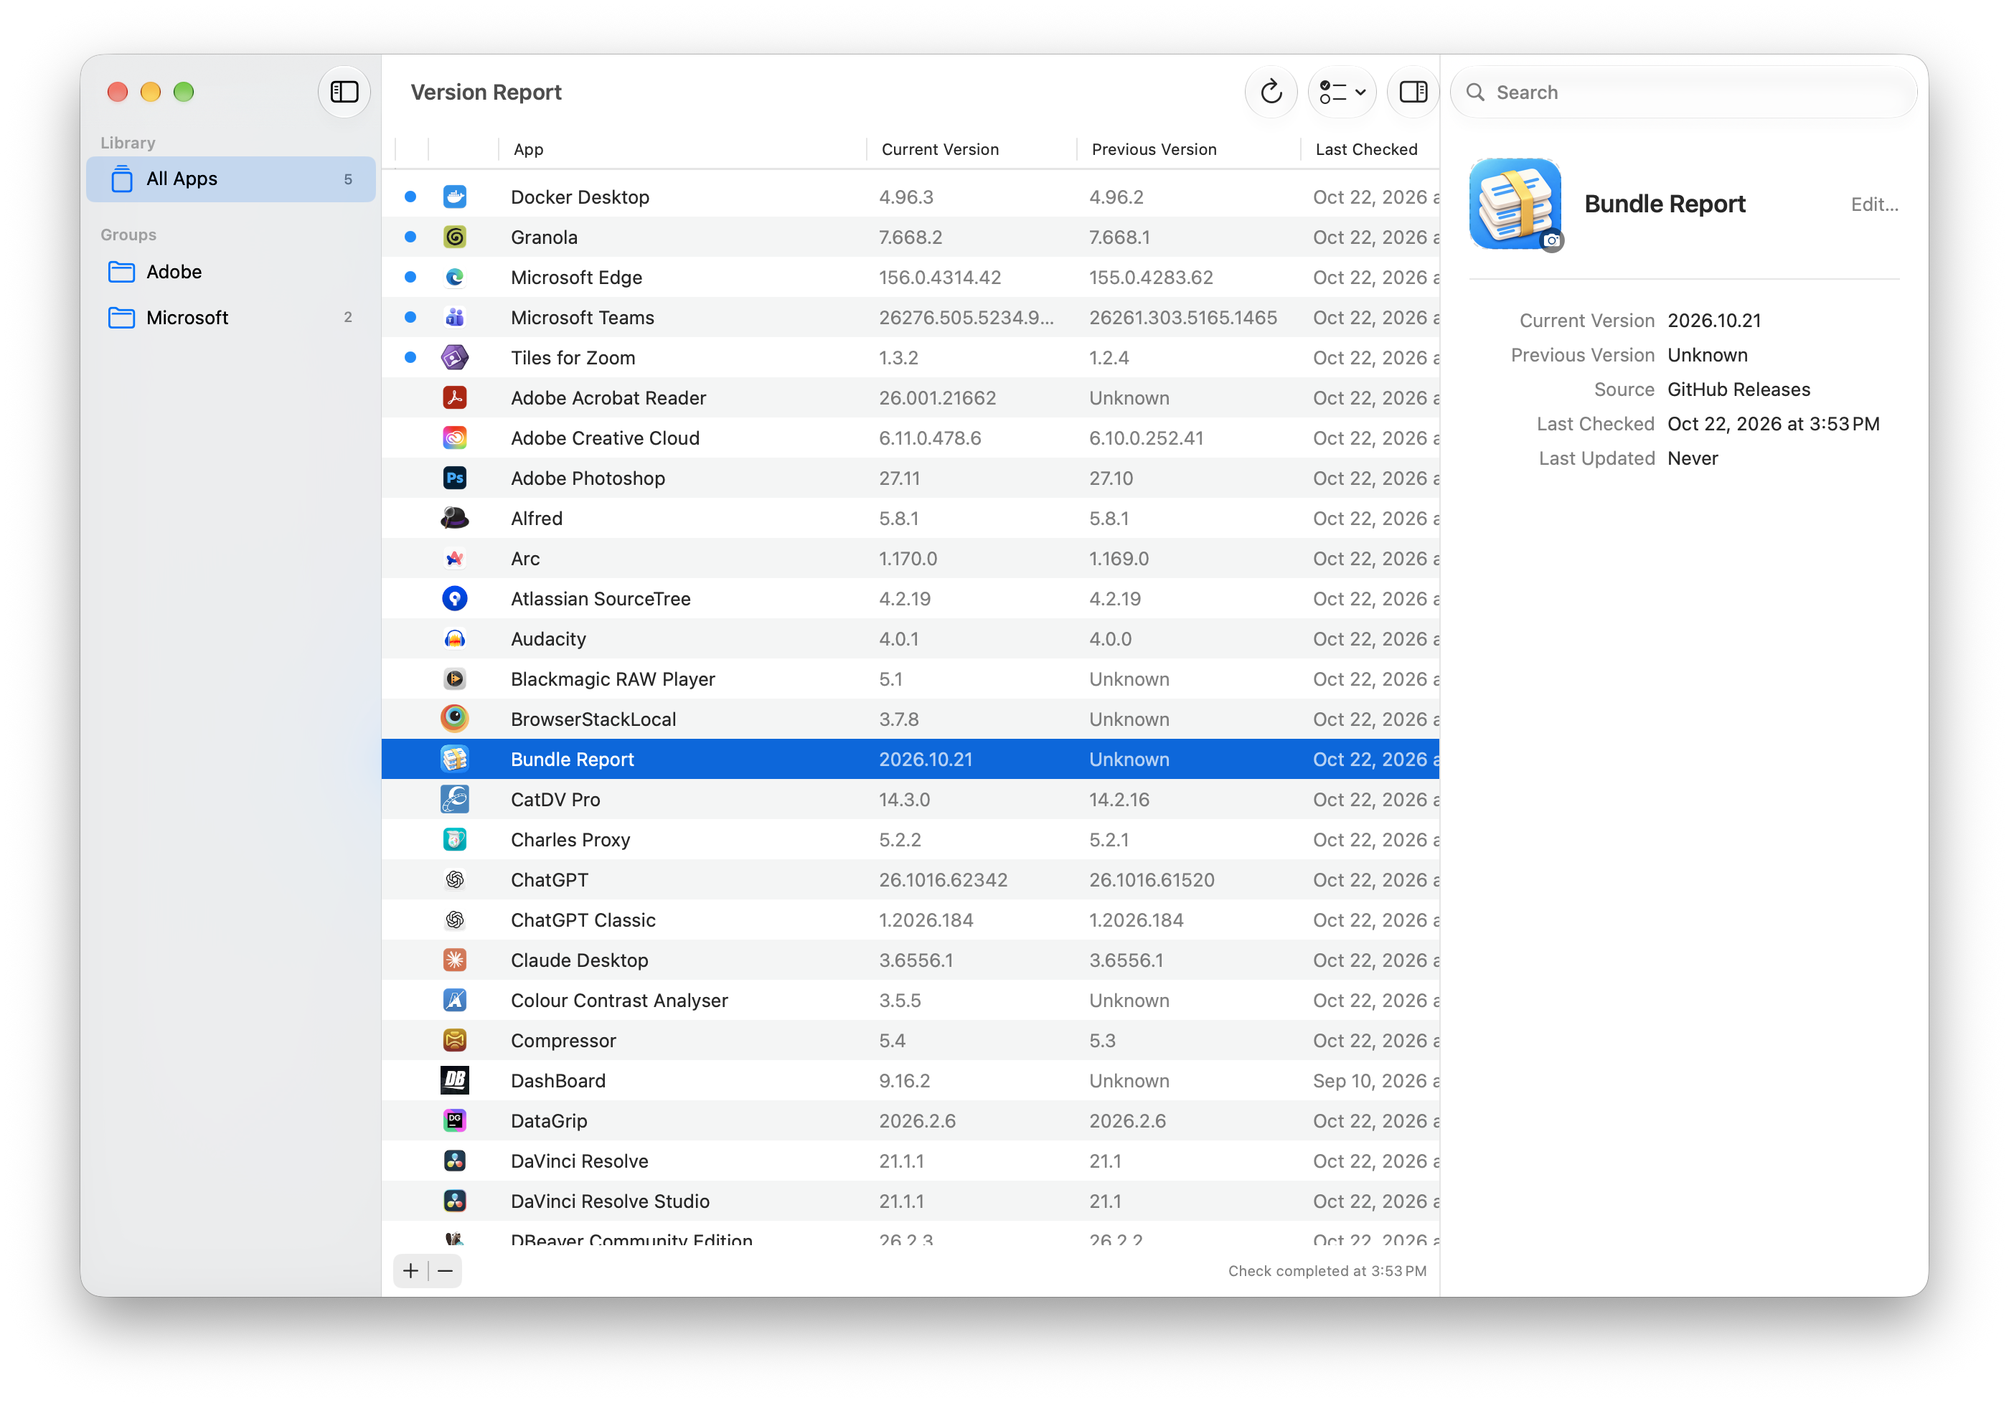
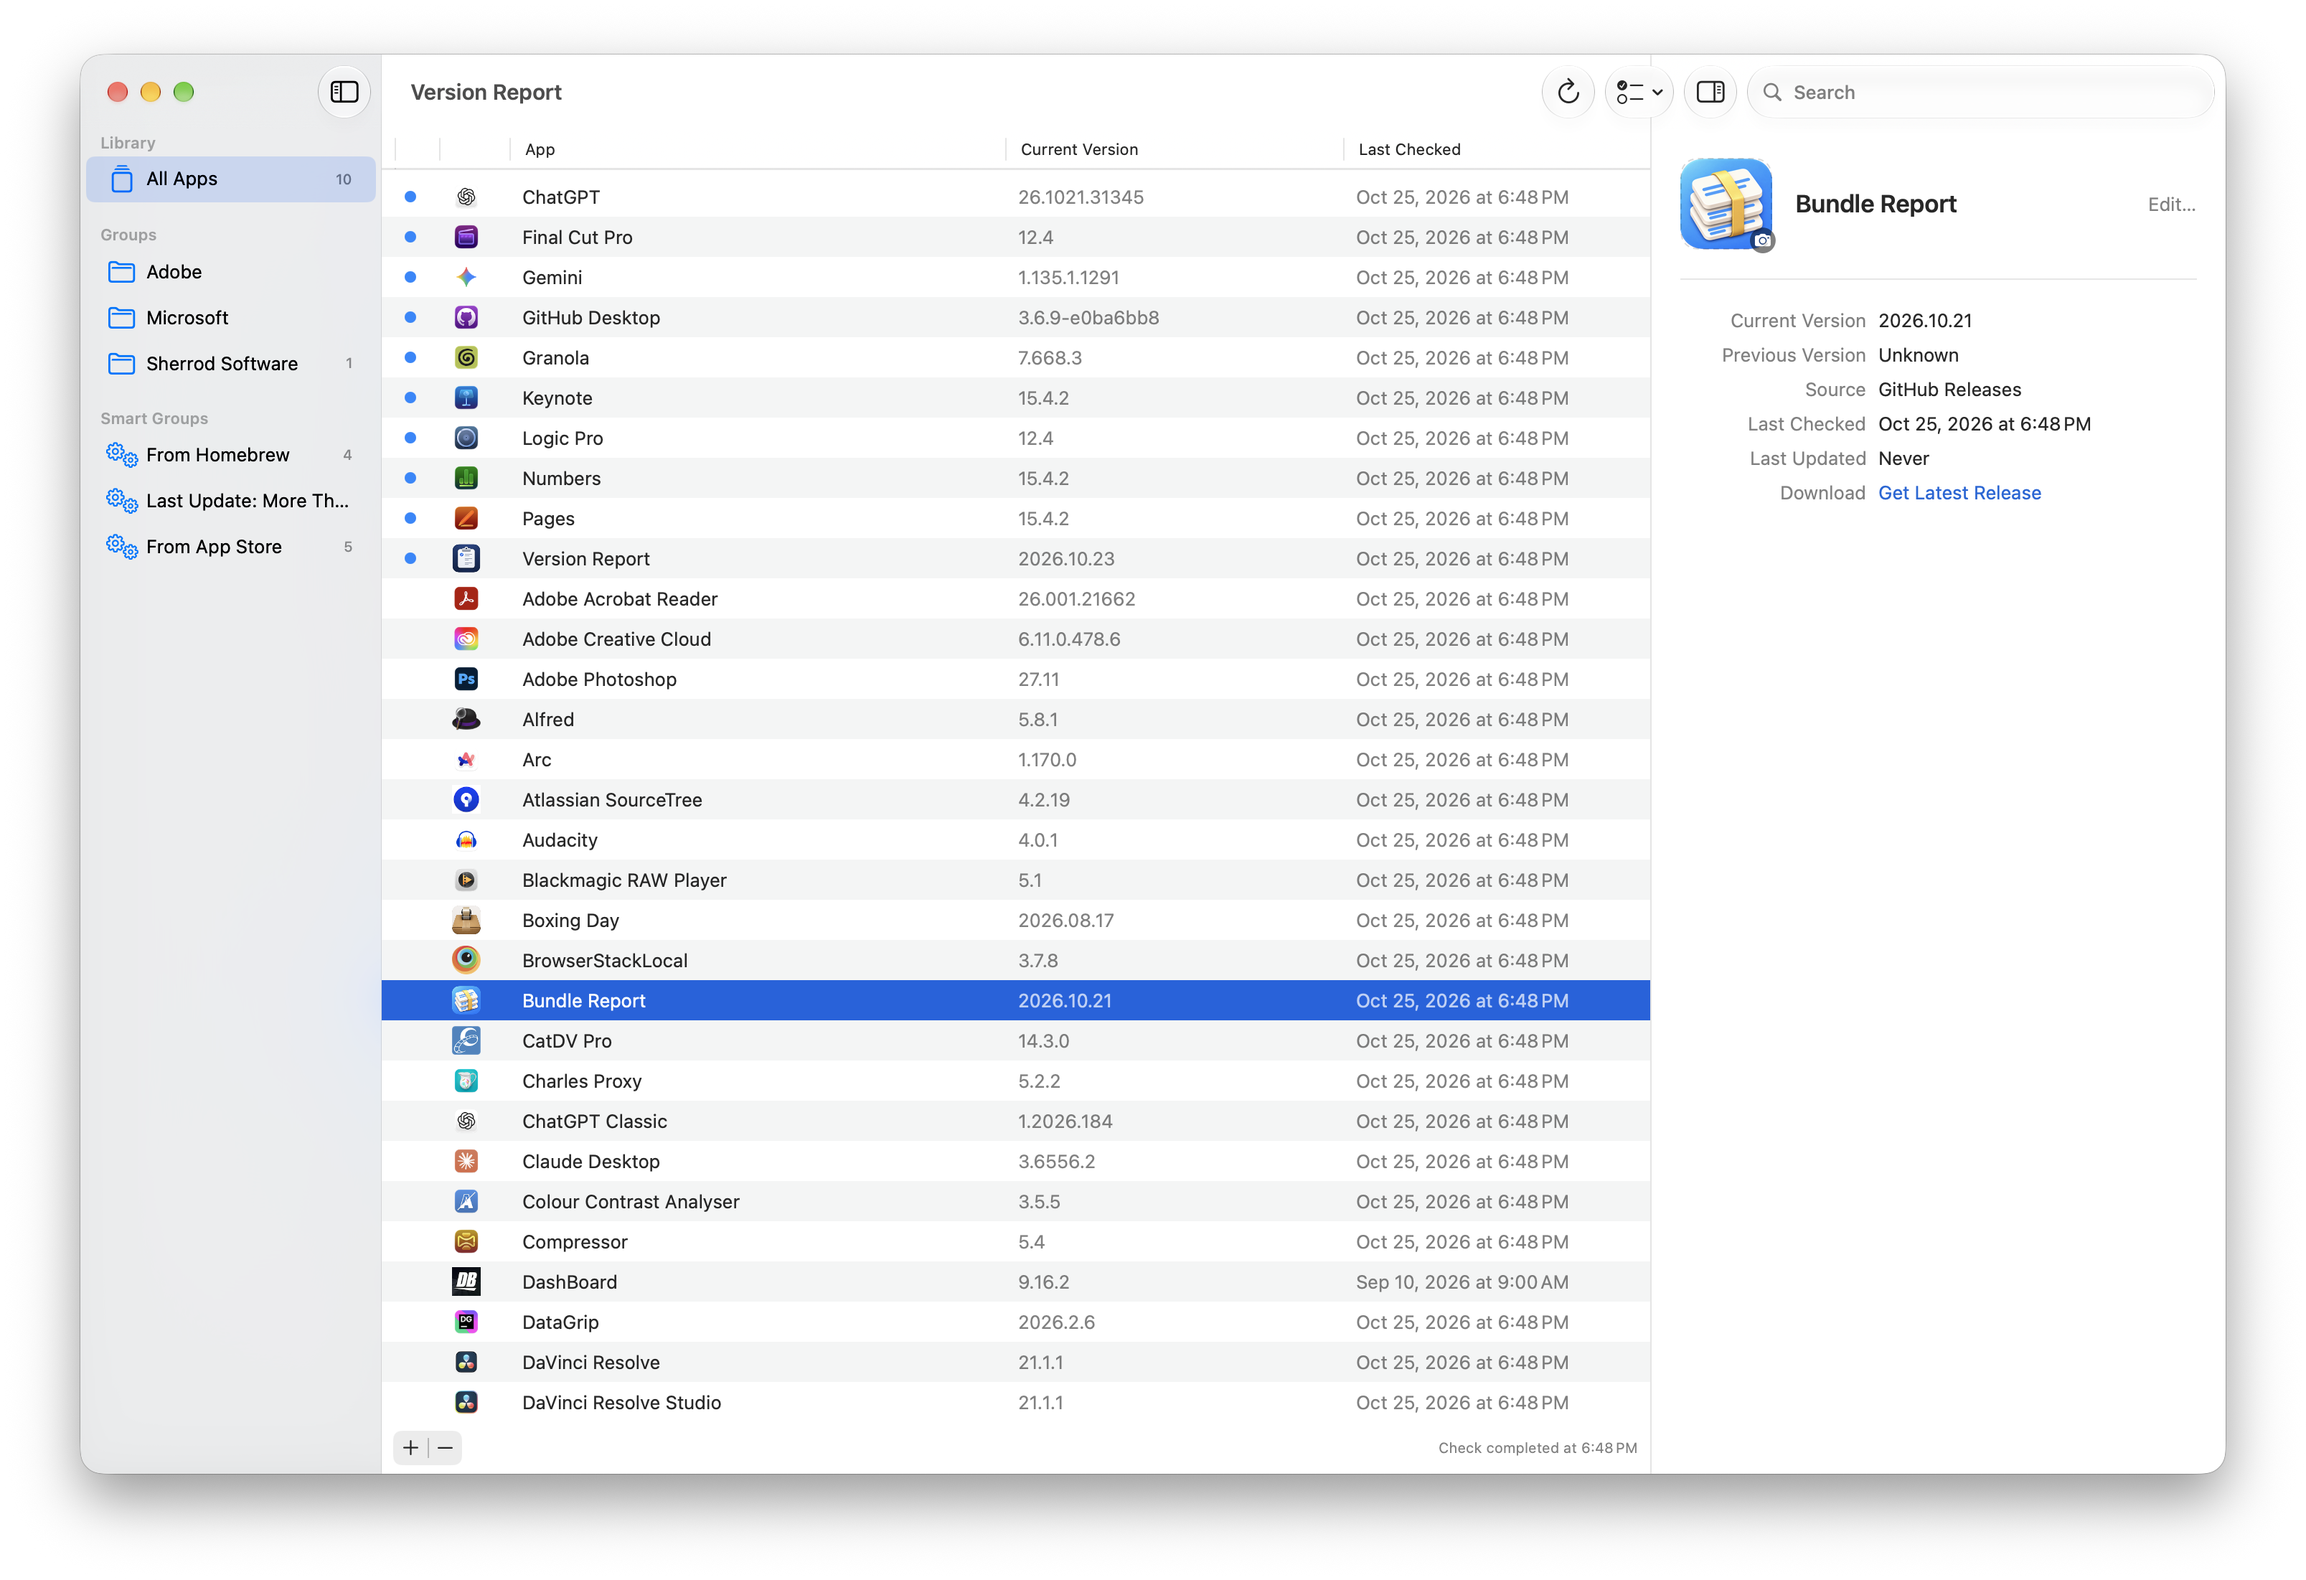
Add Sparkle auto-update, batch App Store lookups, fix onboarding window order
- Add Sparkle framework integration with SUFeedURL/SUPublicEDKey in Info.plist
- Delay updater start so main window appears before first-run permission dialog
- Batch all App Store version checks into a single iTunes Lookup API call with
  per-app fallback for entries that don't have a numeric iTunes ID in their URL
- Extend iTunesID parser to handle both apps.apple.com path format and iTunes
  lookup query-string format
- Convert all 15 bundled App Store library entries from regex/page scraping to
  the iTunes Lookup API (jq parser) for more reliable version detection
- Fix Logic Pro and Final Cut Pro iTunes IDs (were iPad app IDs, now Mac IDs)
- Update VersionReportWindow screenshot

Changed region(s): [[0.0311, 0.0312, 0.9632, 0.9356], [0.6525, 0.0312, 0.7457, 0.0624], [0.7768, 0.0312, 0.8079, 0.0624]]

diff --git a/Version Report/VersionReportService.swift b/Version Report/VersionReportService.swift
@@ -925,6 +925,55 @@ final class VersionReportService: ObservableObject {
         return "\(parts[0])/\(parts[1])"
     }
 
+    private func iTunesID(from url: URL) -> Int? {
+        // iTunes Lookup API: ?id=12345
+        if let id = URLComponents(url: url, resolvingAgainstBaseURL: false)?
+            .queryItems?.first(where: { $0.name == "id" })?.value.flatMap(Int.init) {
+            return id
+        }
+        // App Store page URL: /id12345
+        if let match = url.path.range(of: #"/id(\d+)"#, options: .regularExpression) {
+            return Int(url.path[match].dropFirst(3))
+        }
+        return nil
+    }
+
+    private func batchLookupAppStoreVersions(configs: [(config: AppConfig, pageURL: URL)]) async -> [String: String] {
+        let pairs = configs.compactMap { item -> (Int, String)? in
+            guard let id = iTunesID(from: item.pageURL) else { return nil }
+            return (id, item.config.id)
+        }
+        guard !pairs.isEmpty,
+              let url = URL(string: "https://itunes.apple.com/lookup?id=\(pairs.map { "\($0.0)" }.joined(separator: ","))&entity=macSoftware") else {
+            return [:]
+        }
+        guard let (data, response) = try? await URLSession.shared.data(from: url) else {
+            print("[AppStore batch] network error")
+            return [:]
+        }
+        if let http = response as? HTTPURLResponse, http.statusCode != 200 {
+            print("[AppStore batch] HTTP \(http.statusCode)")
+            return [:]
+        }
+        guard let json = try? JSONSerialization.jsonObject(with: data) as? [String: Any],
+              let results = json["results"] as? [[String: Any]] else {
+            print("[AppStore batch] unexpected response: \(String(data: data, encoding: .utf8) ?? "<binary>")")
+            return [:]
+        }
+        print("[AppStore batch] got \(results.count) results for \(pairs.count) IDs")
+
+        var trackIdToVersion: [Int: String] = [:]
+        for result in results {
+            if let trackId = result["trackId"] as? Int, let version = result["version"] as? String {
+                trackIdToVersion[trackId] = version
+            }
+        }
+        return Dictionary(uniqueKeysWithValues: pairs.compactMap { (trackId, configId) -> (String, String)? in
+            guard let v = trackIdToVersion[trackId] else { return nil }
+            return (configId, v)
+        })
+    }
+
     func runVersionCheck() {
 
         if isChecking {
@@ -940,8 +989,44 @@ final class VersionReportService: ObservableObject {
             var detectedUpdates: [(appName: String, previousVersion: String, currentVersion: String)] = []
             var fetchErrors: [String] = []
 
+            // Batch-fetch all App Store apps in a single iTunes Lookup API call
+            let appStoreItems: [(config: AppConfig, pageURL: URL)] = configs.compactMap { config in
+                if case .appstore(let pageURL, _, _) = config.source { return (config, pageURL) }
+                return nil
+            }
+            var batchedVersions = await batchLookupAppStoreVersions(configs: appStoreItems)
+            let appStoreIDs = Set(appStoreItems.map { $0.config.id })
+
+            // Fall back to individual lookups for any app the batch missed
+            await withTaskGroup(of: (String, String?).self) { group in
+                for item in appStoreItems where batchedVersions[item.config.id] == nil {
+                    group.addTask {
+                        let version = try? await self.fetchCurrentVersion(for: item.config)
+                        return (item.config.id, version ?? nil)
+                    }
+                }
+                for await (configID, version) in group {
+                    if let version { batchedVersions[configID] = version }
+                }
+            }
+
+            for item in appStoreItems {
+                if let version = batchedVersions[item.config.id] {
+                    clearCheckError(for: item.config)
+                    let result = updateAppState(version: version, for: item.config)
+                    if result.didUpdate {
+                        sendVersionUpdateNotification(appName: item.config.name, previousVersion: result.previousVersion, currentVersion: version)
+                        detectedUpdates.append((appName: item.config.name, previousVersion: result.previousVersion, currentVersion: version))
+                    }
+                } else {
+                    let msg = "App Store lookup failed"
+                    fetchErrors.append("\(item.config.name): \(msg)")
+                    saveCheckError(msg, for: item.config)
+                }
+            }
+
             await withTaskGroup(of: (AppConfig, String?, Error?).self) { group in
-                for config in configs {
+                for config in configs where !appStoreIDs.contains(config.id) {
                     group.addTask {
                         do {
                             let version = try await self.fetchCurrentVersion(for: config)

diff --git a/Version Report/Version_ReportApp.swift b/Version Report/Version_ReportApp.swift
@@ -9,8 +9,18 @@ import SwiftUI
 import Sparkle
 
 final class VersionReportAppDelegate: NSObject, NSApplicationDelegate {
+    let updaterController = SPUStandardUpdaterController(
+        startingUpdater: false,
+        updaterDelegate: nil,
+        userDriverDelegate: nil
+    )
+
     func applicationDidFinishLaunching(_ notification: Notification) {
         requestDockBadgeRefresh()
+        // Delay updater start so the main window appears before any Sparkle dialogs
+        DispatchQueue.main.asyncAfter(deadline: .now() + 0.5) {
+            try? self.updaterController.updater.start()
+        }
     }
 
     func applicationDidBecomeActive(_ notification: Notification) {
@@ -33,11 +43,7 @@ struct Version_ReportApp: App {
     @AppStorage("showBuildNumberColumn") private var showBuildNumberColumn = false
     @AppStorage("showPreviousVersionColumn") private var showPreviousVersionColumn = false
 
-    private let updaterController = SPUStandardUpdaterController(
-        startingUpdater: true,
-        updaterDelegate: nil,
-        userDriverDelegate: nil
-    )
+    private var updaterController: SPUStandardUpdaterController { appDelegate.updaterController }
 
     var body: some Scene {
         WindowGroup {
